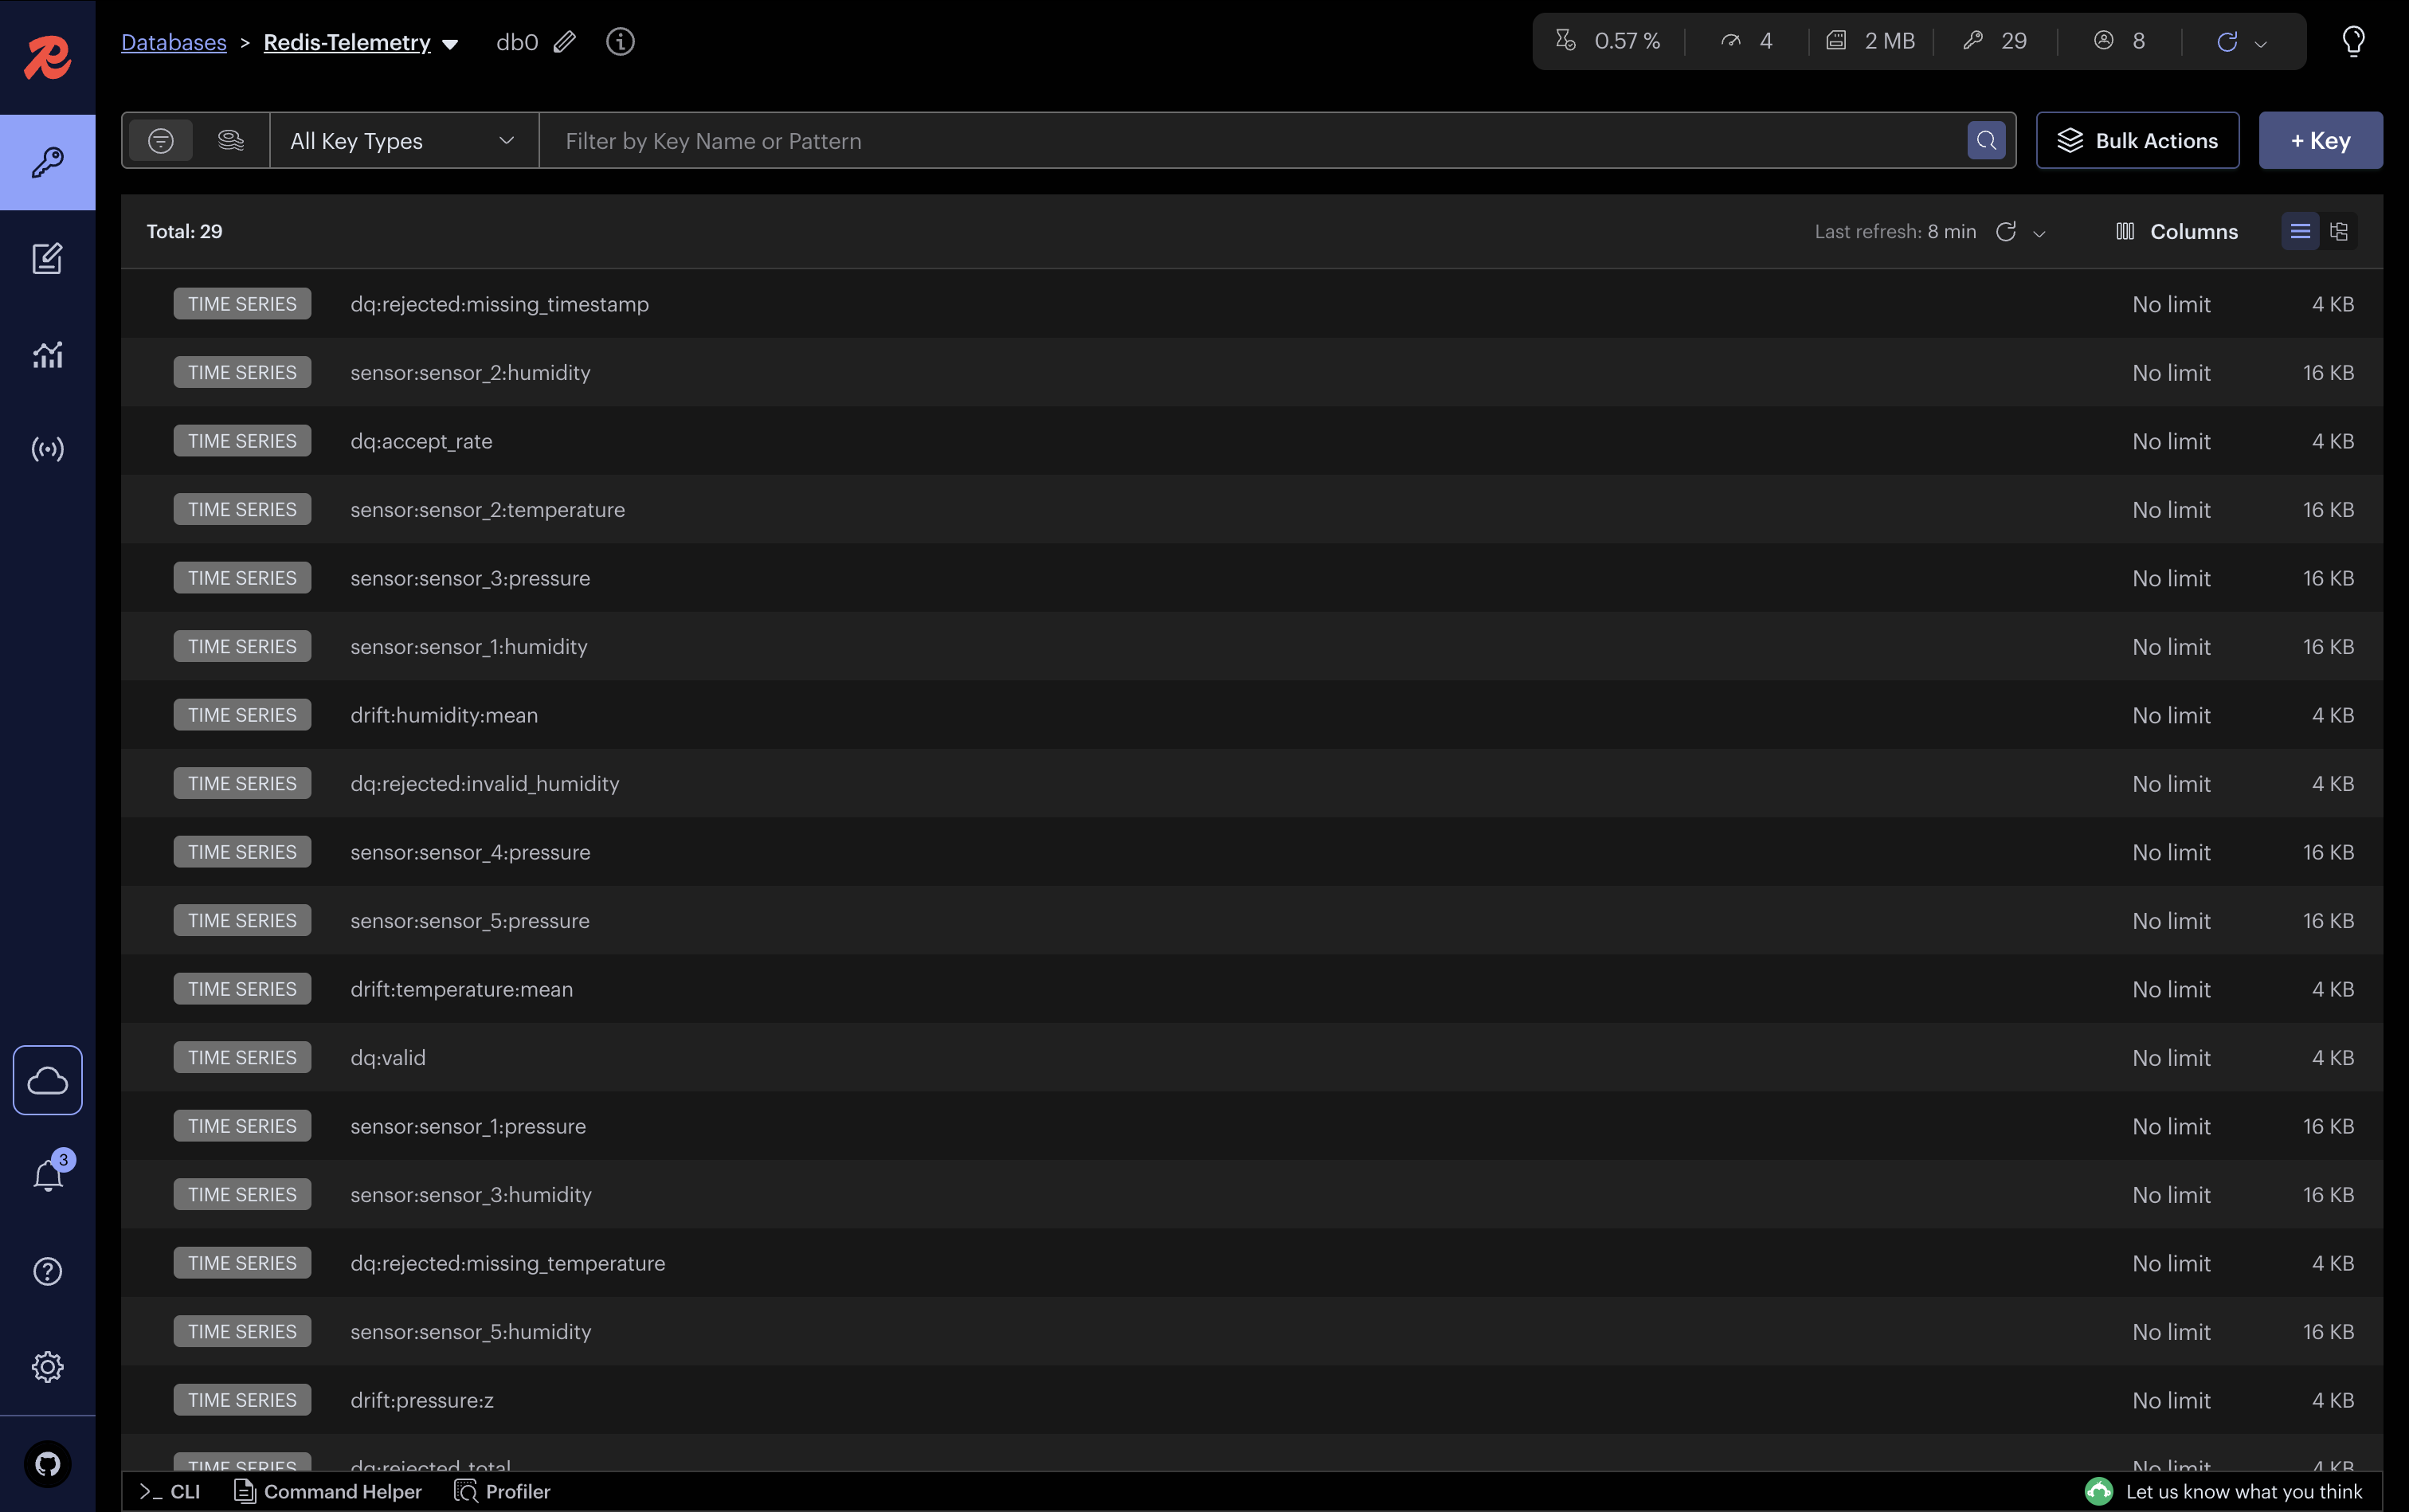
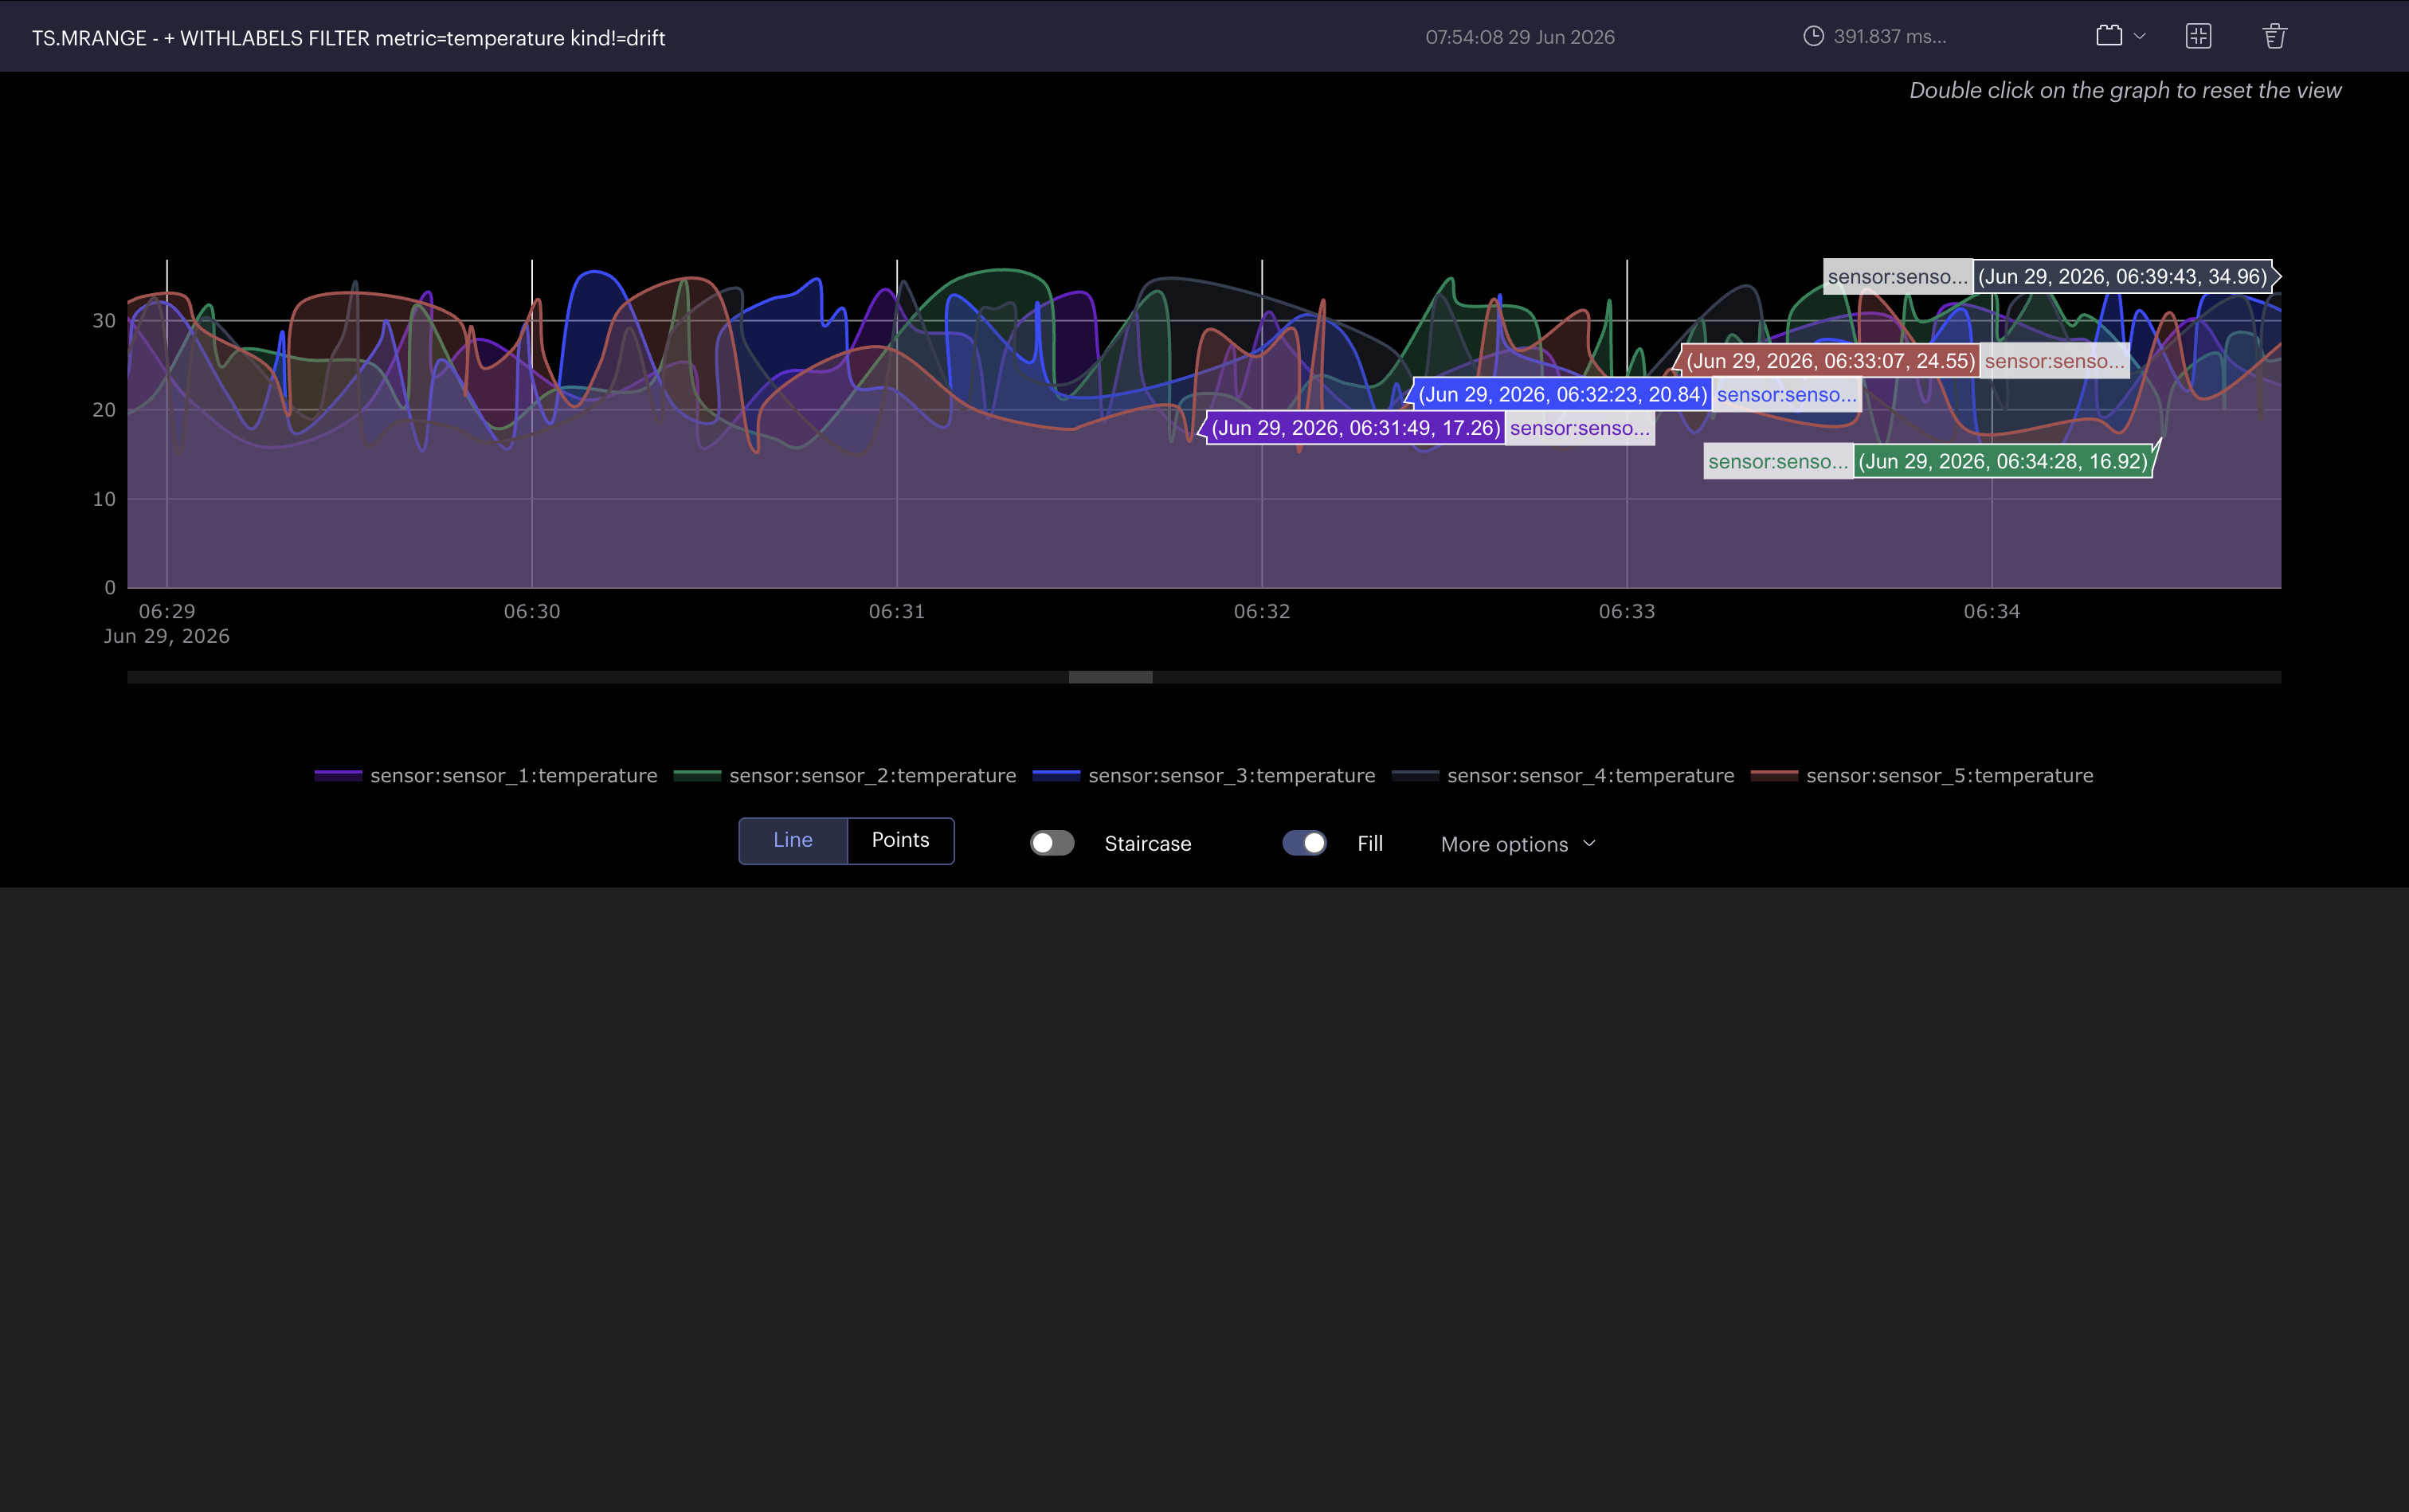
docs: fix Live Pipeline screenshots and tighten README accuracy
- Kafka: show the real sensor_data Avro topic + Schema Registry schema + the
  sensor_data_rejected DLQ (the old screenshot was the rejected topic mislabeled
  as sensor_data)
- Spark: use the Structured Streaming tab, not the Jobs tab; 'from Kafka'
- Redis: use the TS.MRANGE chart + the key list (was only the key list, captioned
  as a chart)
- Grafana: caption now matches (all-sensors panels + Sensor 1 gauges/pressure)
- GCP gallery: 'GKE Fleet dashboard' (the shot doesn't show Connect Gateway)
- Honesty pass: streaming stack only locally (BigQuery/dbt are cloud-only),
  GMP -> Cloud Monitoring (not Grafana, which renders no GMP data in the cloud),
  'same code and images' (not 'same manifests'), dbt targets real BigQuery
- Correct the AWS companion repo name + link (contract-driven-data-pipeline)

diff --git a/README.md b/README.md
@@ -19,10 +19,10 @@ This project simulates a fleet of IoT environmental sensors and processes their 
 
 It runs two ways from a single codebase:
 
-- 💻 **Locally** — the full stack on **Docker Compose**, for development and the test suite.
+- 💻 **Locally** — the full **streaming** stack on **Docker Compose** (Kafka, Spark, Redis, Grafana, with the data-quality & drift observability), for development and the test suite. *The BigQuery + dbt analytics layer is cloud-only.*
 - ☁️ **In the cloud** — a **cloud-native, fully keyless, 100% Infrastructure-as-Code** deployment on **GKE Autopilot**, provisioned with **Terraform** and shipped by **GitHub Actions** (one-button deploy, zero stored credentials).
 
-> 🌍 This is the **GCP** half of a multi-cloud portfolio. Its companion, [`s3-spark-pg-etl`](https://github.com/theofanis-tsakanikas), provisions the same keyless-OIDC philosophy on **AWS**.
+> 🌍 This is the **GCP** half of a multi-cloud portfolio. Its companion, [`contract-driven-data-pipeline`](https://github.com/theofanis-tsakanikas/contract-driven-data-pipeline), applies the same keyless-OIDC philosophy on **AWS**.
 
 ---
 
@@ -61,7 +61,7 @@ flowchart LR
   R --> G["Grafana<br/>live dashboards"]
   BQ --> DBT["dbt marts<br/>CronJob every 2 min"]
   DBT --> LS["Looker Studio"]
-  SP -. /metrics .-> GMP["Managed Prometheus"] --> G
+  SP -. /metrics .-> GMP["Managed Prometheus"] --> CM["Cloud Monitoring"]
   G -->|"drift > 3σ"| SLACK["Slack"]
 ```
 
@@ -94,7 +94,7 @@ This is a portfolio project built to demonstrate **end-to-end, cloud-native data
 * **Analytics marts:** dbt staging + marts on BigQuery, refreshed every 2 minutes by a Kubernetes CronJob.
 * **Live observability:** Per-batch data-quality + drift metrics on a dedicated Grafana row, plus Spark JVM/throughput metrics via Managed Prometheus.
 * **Drift alerting:** Provisioned Grafana alert rules push a Slack notification when any metric drifts beyond 3σ.
-* **Two deployment targets:** Docker Compose locally; GKE Autopilot in the cloud — same manifests, same code.
+* **Two deployment targets:** the same application code and container images run locally via Docker Compose and in the cloud on GKE Autopilot (Kubernetes manifests).
 
 ---
 
@@ -103,22 +103,34 @@ This is a portfolio project built to demonstrate **end-to-end, cloud-native data
 A walk through the running stack, stage by stage.
 
 ### 1. Kafka — schema-governed ingestion
-Avro-encoded sensor readings landing on the `sensor_data` topic, browsable in Kafka-UI.
+Avro-encoded sensor readings land on the `sensor_data` topic, browsable in Kafka-UI (note the `SchemaRegistry` value serde).
 
-![Kafka messages](./images/kafka-messages.png)
+![sensor_data topic — Avro](./images/kafka-messages.png)
+
+Their structure is governed by the registered Avro schema (`SensorReading`) in the Schema Registry:
+
+![Schema Registry — SensorReading](./images/kafka-schema.png)
+
+Readings that fail validation aren't dropped — they're quarantined to the `sensor_data_rejected` dead-letter topic, each tagged with its `rejection_reason`:
+
+![sensor_data_rejected — dead-letter topic](./images/kafka-rejected.png)
 
 ### 2. Spark — Structured Streaming
-The Spark UI showing the streaming query processing micro-batches off Kafka.
+The Spark UI's **Structured Streaming** tab — the active streaming queries processing micro-batches from Kafka, with their input/processing rates and latest batch IDs.
 
 ![Spark Structured Streaming](./images/spark-streaming.png)
 
 ### 3. Redis TimeSeries — the hot path
-`TS.MRANGE` across all 5 sensors, charted in RedisInsight — the low-latency serving store Grafana reads from.
+`TS.MRANGE` across all 5 sensors' temperature, charted in RedisInsight — the low-latency serving store Grafana reads from.
 
-![Redis TimeSeries](./images/redis-timeseries.png)
+![Redis — TS.MRANGE chart](./images/redis-timeseries.png)
+
+Underneath: 15 labelled sensor series (5 sensors × 3 metrics) alongside the `dq:*` and `drift:*` observability series the job publishes each batch.
+
+![Redis — TimeSeries keys](./images/redis-keys.png)
 
 ### 4. Grafana — live sensor dashboard
-Network-wide temperature, per-sensor gauges, and a pressure trend, auto-refreshing every 5 seconds.
+All-sensors temperature and humidity, plus **Sensor 1**'s live gauges (current temperature/humidity) and pressure trend — auto-refreshing every 5 seconds.
 
 ![Grafana — IoT Sensors](./images/grafana-sensors.png)
 
@@ -147,7 +159,7 @@ The streaming job lands two raw tables in BigQuery (`telemetry.readings`, `telem
 | **Staging** | `stg_readings`, `stg_rejections` — typed, renamed views over the raw landing tables |
 | **Marts** | `sensor_minutely` (per-sensor/min aggregates), `accept_rate_minutely`, `rejections_by_reason`, `reading_volume` |
 
-In the cloud, a Kubernetes **CronJob runs `dbt build` every 2 minutes**, so the marts track the live stream; **Looker Studio** sits on top for BI-style exploration. Locally, the same models run via `make dbt-build`.
+In the cloud, a Kubernetes **CronJob runs `dbt build` every 2 minutes**, so the marts track the live stream; **Looker Studio** sits on top for BI-style exploration. The same models also run from your laptop via `make dbt-build` — dbt-bigquery targets BigQuery, so it needs GCP credentials (there's no local warehouse).
 
 ![BigQuery — readings table](./images/bigquery-readings.png)
 
@@ -161,7 +173,7 @@ Observability is treated as a first-class output of the pipeline, not an afterth
 
 ![Grafana — Data Quality & Drift](./images/grafana-data-quality.png)
 
-**Spark internals (system-level).** The Spark driver exposes Prometheus metrics; in the cloud **GKE Managed Service for Prometheus (GMP)** scrapes them, so streaming throughput, micro-batch latency, and JVM heap/GC are queryable from Cloud Monitoring and Grafana.
+**Spark internals (system-level).** The Spark driver exposes Prometheus metrics; in the cloud **GKE Managed Service for Prometheus (GMP)** scrapes them into **Cloud Monitoring**, where streaming throughput, micro-batch latency, and JVM heap/GC are queryable. (Locally, a self-hosted Prometheus backs the same Grafana **Pipeline Health** dashboard.)
 
 **Drift → Slack.** Grafana alerting is fully provisioned ([`infra/grafana/provisioning/alerting/`](infra/grafana/provisioning/alerting/)): when any metric drifts past **3σ**, the rule fires and posts to Slack — with a matching **resolved** message when it clears.
 
@@ -224,7 +236,7 @@ The result: the full pipeline running as pods on GKE Autopilot…
     <td align="center"><img src="./images/secret-manager.png" width="100%"><br><sub>Secret Manager</sub></td>
   </tr>
   <tr>
-    <td align="center"><img src="./images/connect-gateway.png" width="100%"><br><sub>Fleet + Connect Gateway</sub></td>
+    <td align="center"><img src="./images/connect-gateway.png" width="100%"><br><sub>GKE Fleet dashboard — 1 cluster, healthy</sub></td>
     <td align="center"><img src="./images/cloud-monitoring.png" width="100%"><br><sub>Cloud Monitoring (GMP) dashboards</sub></td>
   </tr>
 </table>
@@ -246,7 +258,7 @@ make cloud-down    # destroy the app layer (foundation + BigQuery + secrets pers
 
 ## 💻 Local Development (Docker Compose)
 
-The full stack also runs locally — ideal for development and to run the test suite without any cloud.
+The full **streaming** stack also runs locally — ideal for development and to run the test suite without any cloud. (The BigQuery + dbt analytics layer is cloud-only — it targets managed BigQuery.)
 
 ```bash
 # 1. One-time setup: venv, deps, data dirs, and a .env from the template